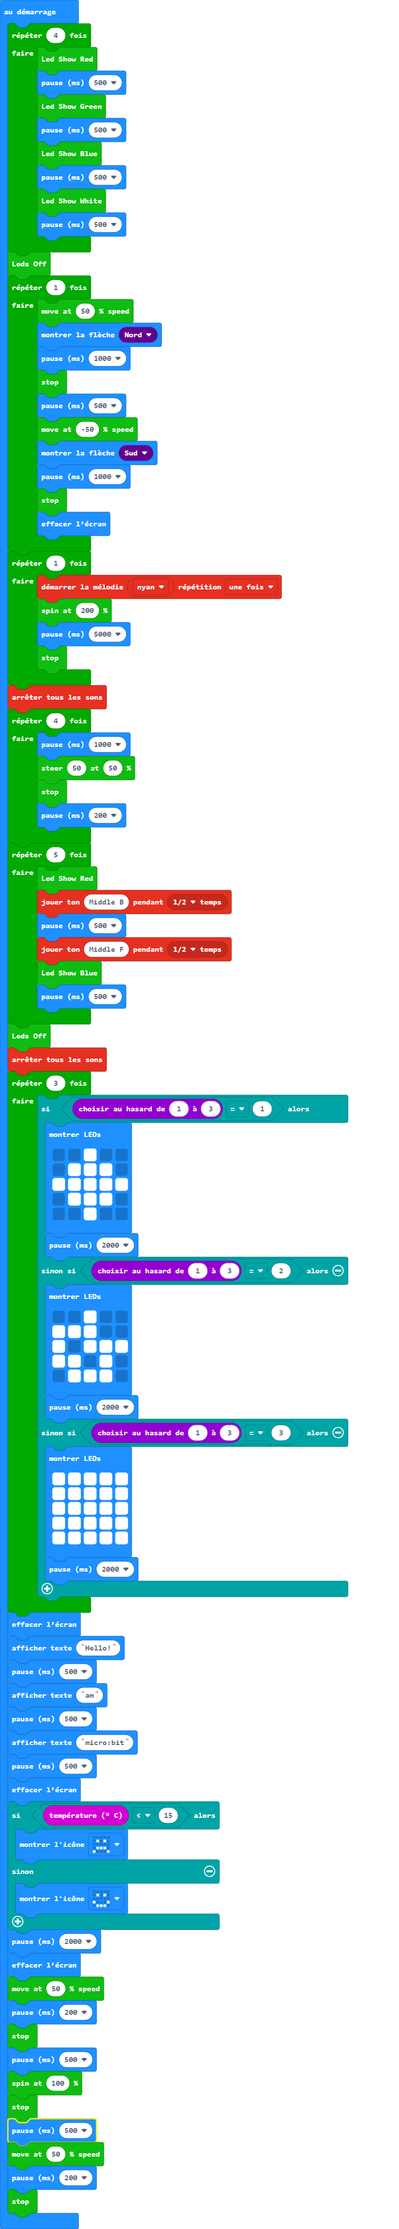
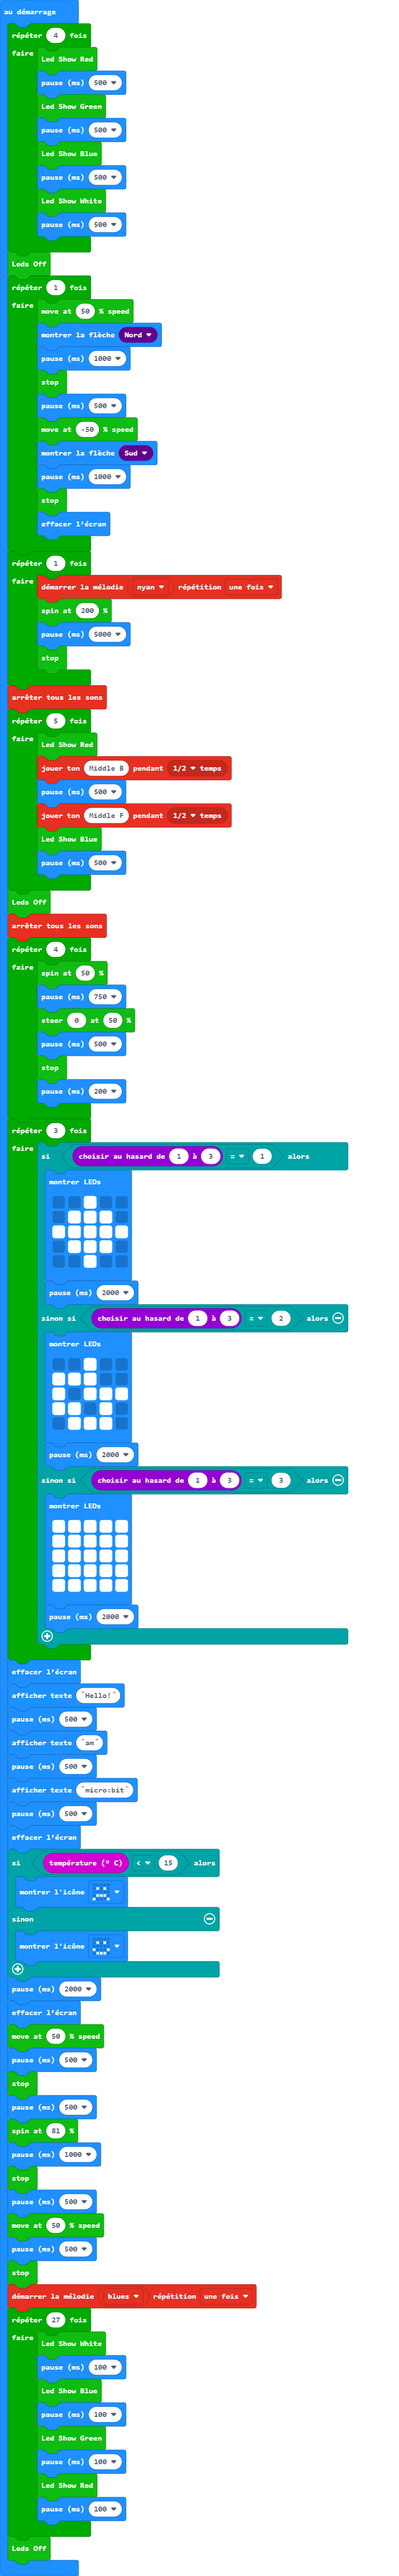
Mise à jour main.blocks, main.ts

Changed region(s): [[0.0, 0.0, 0.894, 0.9967]]

diff --git a/main.ts b/main.ts
@@ -28,12 +28,6 @@ for (let index = 0; index < 1; index++) {
     RobotCar_Keyestudio.Motors.stop()
 }
 music.stopAllSounds()
-for (let index = 0; index < 4; index++) {
-    basic.pause(1000)
-    RobotCar_Keyestudio.Motors.steer(50, 50)
-    RobotCar_Keyestudio.Motors.stop()
-    basic.pause(200)
-}
 for (let index = 0; index < 5; index++) {
     RobotCar_Keyestudio.Leds.showRed()
     music.playTone(494, music.beat(BeatFraction.Half))
@@ -44,6 +38,14 @@ for (let index = 0; index < 5; index++) {
 }
 RobotCar_Keyestudio.Leds.ledsOff()
 music.stopAllSounds()
+for (let index = 0; index < 4; index++) {
+    RobotCar_Keyestudio.Motors.spin(50)
+    basic.pause(750)
+    RobotCar_Keyestudio.Motors.steer(50, 0)
+    basic.pause(500)
+    RobotCar_Keyestudio.Motors.stop()
+    basic.pause(200)
+}
 for (let index = 0; index < 3; index++) {
     if (randint(1, 3) == 1) {
         basic.showLeds(`
@@ -90,12 +92,25 @@ if (input.temperature() < 15) {
 basic.pause(2000)
 basic.clearScreen()
 RobotCar_Keyestudio.Motors.move(50)
-basic.pause(200)
+basic.pause(500)
 RobotCar_Keyestudio.Motors.stop()
 basic.pause(500)
-RobotCar_Keyestudio.Motors.spin(100)
+RobotCar_Keyestudio.Motors.spin(81)
+basic.pause(1000)
 RobotCar_Keyestudio.Motors.stop()
 basic.pause(500)
 RobotCar_Keyestudio.Motors.move(50)
-basic.pause(200)
+basic.pause(500)
 RobotCar_Keyestudio.Motors.stop()
+music.startMelody(music.builtInMelody(Melodies.Blues), MelodyOptions.Once)
+for (let index = 0; index < 27; index++) {
+    RobotCar_Keyestudio.Leds.showWhite()
+    basic.pause(100)
+    RobotCar_Keyestudio.Leds.showBlue()
+    basic.pause(100)
+    RobotCar_Keyestudio.Leds.showGreen()
+    basic.pause(100)
+    RobotCar_Keyestudio.Leds.showRed()
+    basic.pause(100)
+}
+RobotCar_Keyestudio.Leds.ledsOff()
